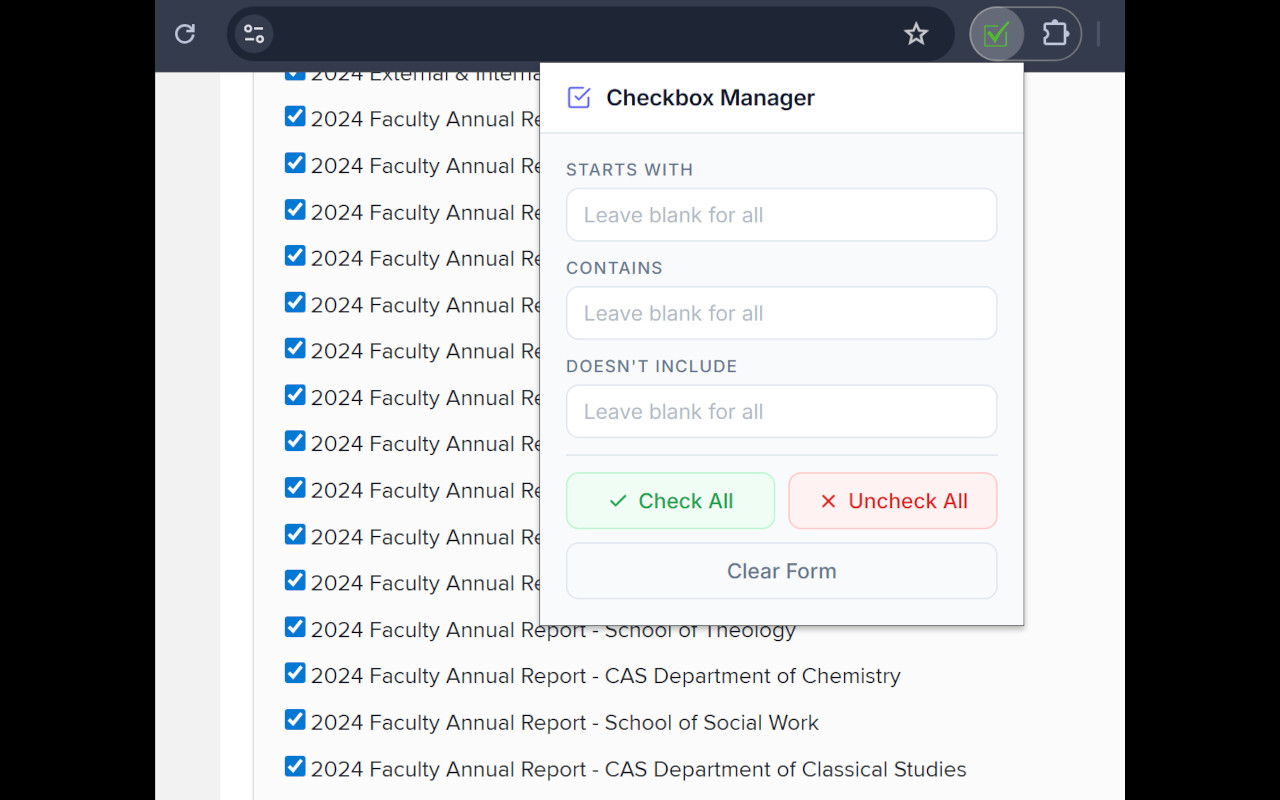
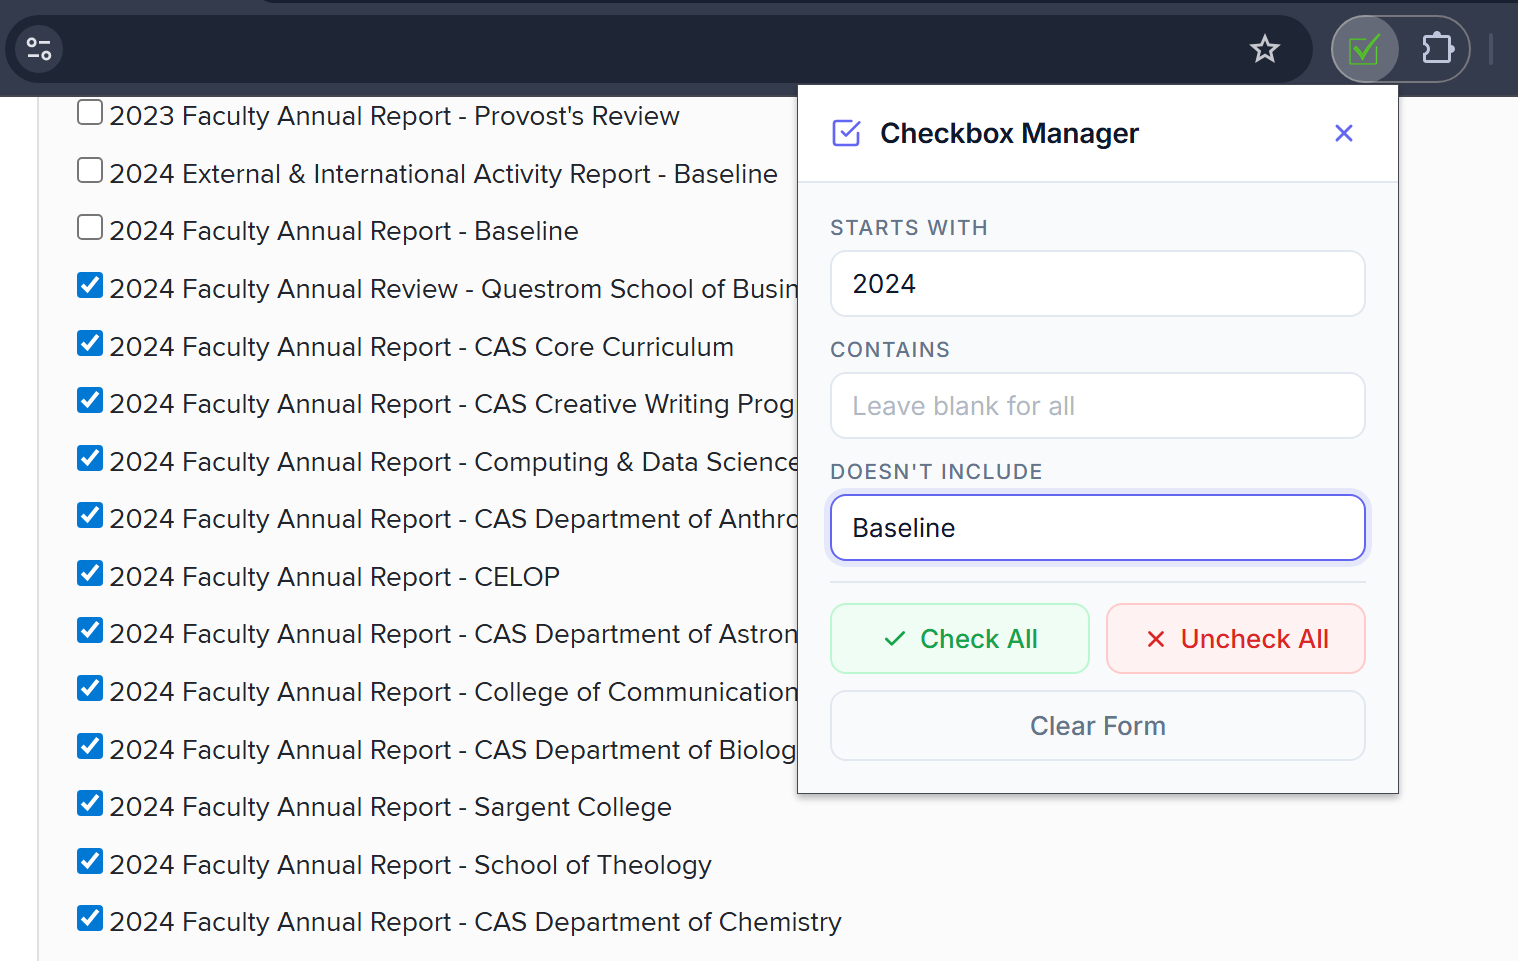
Added Close button, Updated screenshot

diff --git a/popup.html b/popup.html
@@ -59,6 +59,29 @@
       font-weight: 600;
       color: var(--text);
       letter-spacing: -0.01em;
+      flex: 1;
+    }
+
+    #closeBtn {
+      display: flex;
+      align-items: center;
+      justify-content: center;
+      padding: 4px;
+      background: transparent;
+      border: none;
+      color: var(--muted);
+      border-radius: 4px;
+      cursor: pointer;
+      transition: background 0.15s, color 0.15s;
+    }
+
+    #closeBtn:hover {
+      background: var(--border);
+      color: var(--text);
+    }
+
+    #closeBtn:active {
+      opacity: 1;
     }
 
     .content {
@@ -189,6 +212,12 @@
       <path d="M21 12v7a2 2 0 0 1-2 2H5a2 2 0 0 1-2-2V5a2 2 0 0 1 2-2h11"></path>
     </svg>
     <h3>Checkbox Manager</h3>
+    <button type="button" id="closeBtn" title="Close">
+      <svg width="14" height="14" viewBox="0 0 24 24" fill="none" stroke="currentColor" stroke-width="2.5" stroke-linecap="round" stroke-linejoin="round">
+        <line x1="18" y1="6" x2="6" y2="18"></line>
+        <line x1="6" y1="6" x2="18" y2="18"></line>
+      </svg>
+    </button>
   </div>
 
   <div class="content">

diff --git a/popup.js b/popup.js
@@ -75,3 +75,7 @@ document.getElementById('clearButton').addEventListener('click', () => {
   }
 });
 
+document.getElementById('closeBtn').addEventListener('click', () => {
+  window.close();
+});
+